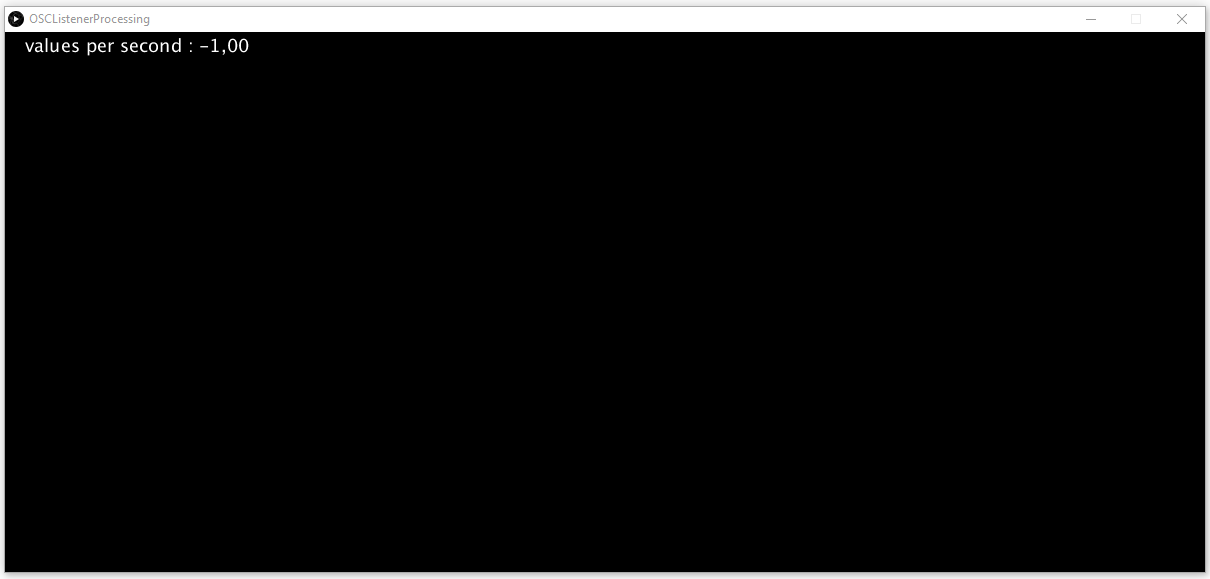
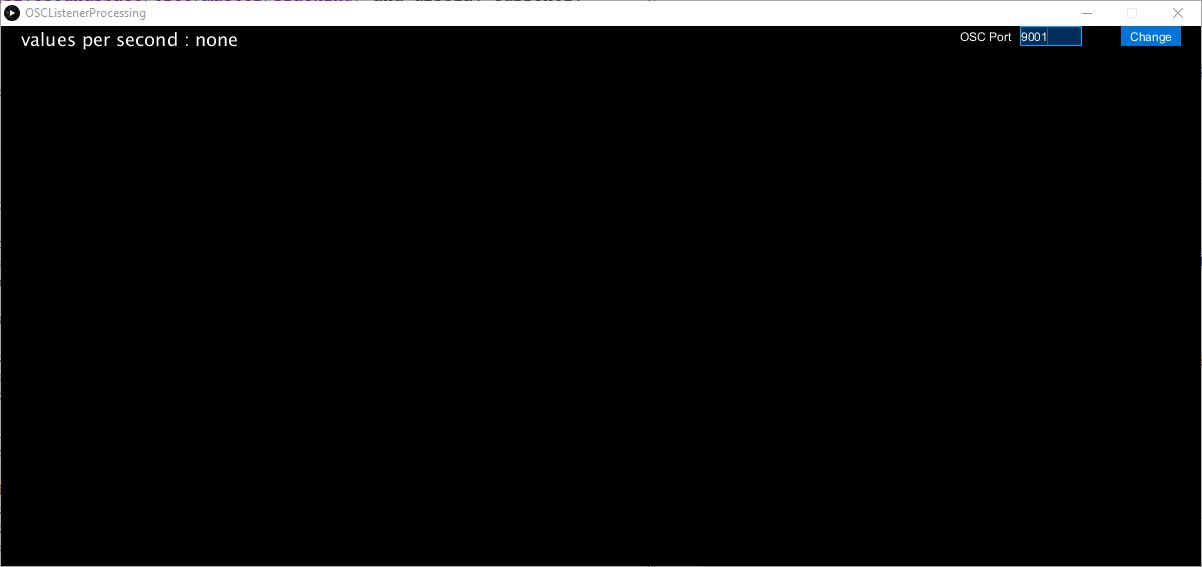
update readmes

Changed region(s): [[0.0, 0.0, 1.0, 1.0]]

diff --git a/SaveTrackerTrajectory/Readme.md b/SaveTrackerTrajectory/Readme.md
@@ -1,0 +1,30 @@
+# Save Tracker Trajectory Processing
+A tool to receive OSC messages sent from [HTCTrackerPositionSender script](https://github.com/numediart/ImmersiveSoundSpace/tree/master/Tracking) and save the trajectory of a given tracker as a csv file.
+
+## What it looks like
+If no trackers are found or the OSC communication is not working, the screen will look like this :  
+![No tracker](screenshots/noTracker.png)  
+Check the print log at the bottom of the Processing window to see if there is an error, and check you set listen the port the tracking script is sending to.
+
+If trackers are found, the window will look like this :  
+![Trackers displayed](screenshots/withTracker.png)
+The tracker is represented in 3D space by a white cube. to help visualize its height, a yellow circle is drawn on the floor, at the vertical of the tracker, and this vertical is represented by a yellow line.
+
+
+## How to use
+- Open *SaveTrackerTrajectory.pde* or launch the *SaveTrackerTrajectory.exe* downloaded from the release page
+- You might need to allow the application to access the network (firewall window)
+- If you opened th code from the Processing editor, click the *Run* button above the code window
+- You can change the listening OSC port by editing its value in the text field ![OSC Port Field](screenshots/oscPortField.png) and click on the button ![Change port button](screenshots/changeButton.png) at the top of the application. The entered value must be written with digits only and be between 1024 and 65532.
+- You can change the recorded tracker by selecting its serial in the dropdown list in the upper right corner of the application.  
+![Dropdown list](screenshots/TrackerListDropdown.png)
+- At the bottom of the screen, the status bar displays the current status of the application. Check it if you encounter problems. The solution might be there. :wink:
+- Just above this bar, on the left is the recording chrono. It will start to increment as soon as you launch the recording. Right next to it, you can see an icon : Two vertical bars when the recording is stopped or paused; A red round when the program is recording.
+
+### Keyboard controls
+The keyboard controls can be used either in uppercase or lowercase.
+
+- **h** : display help for keyboard controls
+- **n** : create or select a csv file to record data into. This command will open a file dialog box that may be hidden behind other windows. You may need to use Alt-Tab to find it. Opening a new file will reset the chrono.
+- **r** : Start / pause / resume recording of the incomming data for the selected tracker. When resuming a recording, the chrono is not reset. **Before starting to record, you need to select a csv file.**
+- **e** or **escape** : Exit the application.

diff --git a/OSCListenerProcessing/Readme.md b/OSCListenerProcessing/Readme.md
@@ -1,22 +1,23 @@
 # OSC Listener Processing
 A tool to check OSC messages are sent from [HTCTrackerPositionSender script](https://github.com/numediart/ImmersiveSoundSpace/tree/master/Tracking) and display currently tracked Trackers.
 
-## How to use
-- Open *OSCListenerProcessing.pde*
-- Set the OSC port to listen @ line 23 (same port as the one defined by `--listeners` argument when launching Tracking script) :  
-`final int oscPort = 9001;`
-- Set the timeout for deleting tracker from the hashmap @ line 25 :  
-`final int TIMEOUT = 2000;`
-- Click the *Run* button above the code window
 
-## What is look like
+## What it looks like
 If no trackers are found or the OSC communication is not working, the screen will look like this :  
 ![No tracker](screenshots/noTracker.png)  
 Check the print log at the bottom of the Processing window to see if there is an error, and check you set listen the port the tracking script is sending to.
 
-If trackers are found, the window will look like this (below is the output of HTCTrackerPositionSender script) :  
+If trackers are found, the window will look like this :  
 ![Trackers displayed](screenshots/trackers.png)  
 - The first line gives the number of received messages per second. In that case, the framerate of the HTCTrackerPositionSender script is set to 30 but as there are 3 trackers and a message is sent for each tracker, it is normal to find about 90 messages per second.
 - For each tracker, the serial id is displayed at the top and the coordinates (in meters, relative to the calibrated origin) are displayed below.
 
 Due to the space available on the display, it is possible to display 12 trackers, which might be enough for most of applications but if you need to display more, resize the window with the `size(width, height)` function at the begining of `setup()`. The trackers will display on a zone which is 200 pixels wide by (half of the program window height - 20).
+
+
+## How to use
+- Open *OSCListenerProcessing.pde*  or launch the *OSCListenerProcessing.exe* downloaded from the release page
+- You might need to allow the application to access the network (firewall window)
+- If you opened th code from the Processing editor, set the timeout for deleting tracker from the hashmap @ line 29 : 
+`final int TIMEOUT = 2000;` and click the *Run* button above the code window
+- You can change the listening OSC port by editing its value in the text field ![OSC Port Field](screenshots/oscPortField.png) and click on the button ![Change port button](screenshots/changeButton.png) in the upper right corner of the application. The entered value must be written with digits only and be between 1024 and 65532.
